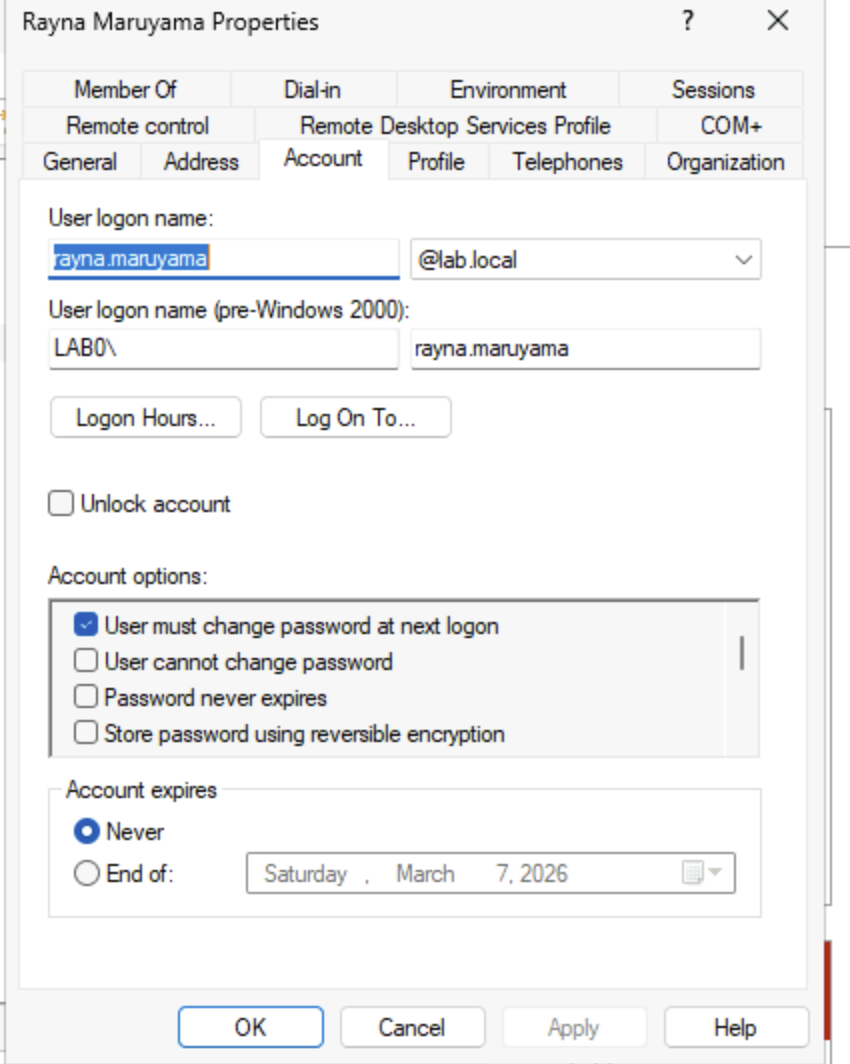
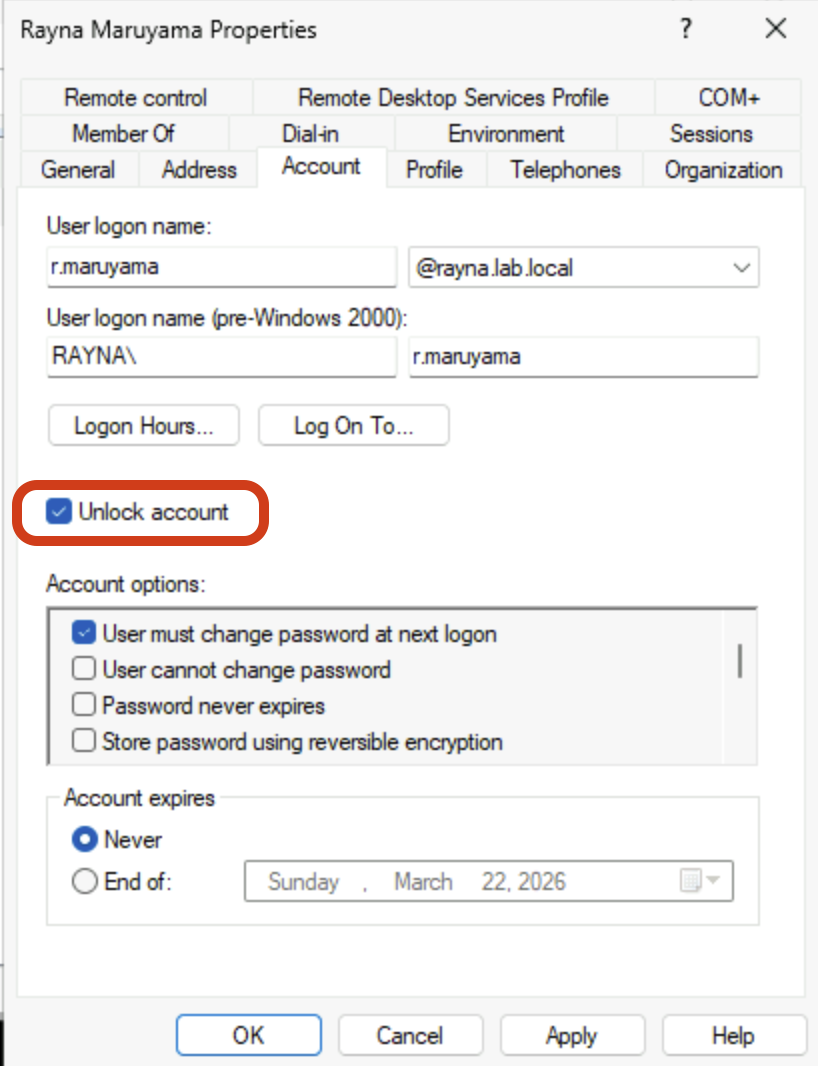
edit images/texts

diff --git a/azure/windows-server-deployment/03-active-directory/02-user-account-management/01-password-reset-account-states-lockouts.md b/azure/windows-server-deployment/03-active-directory/02-user-account-management/01-password-reset-account-states-lockouts.md
@@ -1,7 +1,7 @@
-# User Account Management: Password Resets, States, and Lockouts
+# User Account Management: Password Resets, Unlock Accounts, Enable/Disable Accounts
 
 ## Objective
-The purpose of this lab is to manage user accounts by performing a password reset, modifying account states (enable/disable), and managing account lockout policy.<br>
+This lab demonstrates how to manage Active Directory user accounts by performing password resets, modifying account states (enable/disable), managing account lockouts, and analyzing common troubleshooting scenarios.<br>
 
 ## Prerequisites
 1. Have Windows Server hosted on Microsoft Azure cloud
@@ -16,11 +16,16 @@ The purpose of this lab is to manage user accounts by performing a password rese
 
 ## Steps to Reset Passsword
 ### Step 1: Reset Password
-- Right click on a user from **Users** container.
-- Click on "Reset Password"
-- Enter new password and click "Ok"
+- Right click on a user from **Users** OU.
+- Click on **Reset Password...** from the menu
+- Enter new password and click **OK**
 
-<img src="screenshots/01-reset-password.png" alt="Created a group" width="650">
+    <img src="screenshots/01-reset-password.png" alt="Created a group" width="250">
+
+<!-- TODO
+scenario1: user cant log in after password reset
+scenario 2: Password reset grayed out
+ -->
 
 ---
 ---
@@ -28,12 +33,15 @@ The purpose of this lab is to manage user accounts by performing a password rese
 ## Steps to Unlock an account
 ### Step 1: Open Users Properties
 - Double click on a user to go to users property
-- Under 'Account' tab, tick or untick 'unlock account' to lock or unlock the account.
+- Under **Account** tab, tick or untick **Unlock account** to lock or unlock the account.
 
-<img src="screenshots/02-unlock-lock-account.png" alt="Lock or Unlock a Users account" width="650">
+    <img src="screenshots/02-unlock-lock-account.png" alt="Lock or Unlock a Users account" width="250">
 
+<!-- TODO
+Scenario 1: user account keeps getting locked out
+scenario 2: Account not showing as locked but user cant log in
 
-*Note: Verify that the user is actually locked out*
+-->
 
 ---
 ---
@@ -41,25 +49,16 @@ The purpose of this lab is to manage user accounts by performing a password rese
 ## Steps to Enable/Disable an Account
 ### Step 1: Open Users Properties
 - Double click on a user to go to users property
-- Under 'Account' tab, tick or untick 'Account is disabled' box
+- Under **Account** tab, tick or untick **Account is disabled** box under **Account options**
+- click on **Appy** then **OK**
 
-<img src="screenshots/03-enable-disable-account.png" alt="Enable or disable users account" width="650">
+    <img src="screenshots/03-enable-disable-account.png" alt="Enable or disable users account" width="250">
 
-*Note: Make sure to verify why this user was diabled before enabling it* 
-*Note: **Disabled**: user icon wil show a small downarrow.*
+*Note: If the account is disabled, verify the cause before enabling it* 
 
-
----
----
-## Steps to Move Users to Another OU in Active Directory
-### Step 1: Create another OU
-Refer to: [Domain Controller Promotion - Step 5](../../02-domain-controller/promote-to-domain-controller.md#step-5-add-users-groups-and-computers-ou)
-
-### Step 2: Move a user from one OU to another
-- Select the usr from the source OU
-- Click and drag the user to the destination OU (or right click and select **Move**) 
-<img src="screenshots/04-moving-user-to-another-OU.png" alt="Moved user to another OU" width="650">
-
+<!-- TODO
+Scenario 1: user cant login bc account is disabled
+-->
 
 ## Concepts used in this lab
 [Domain Controller](../../../00-concepts/concepts.md#🔸-domain-controller-dc)
